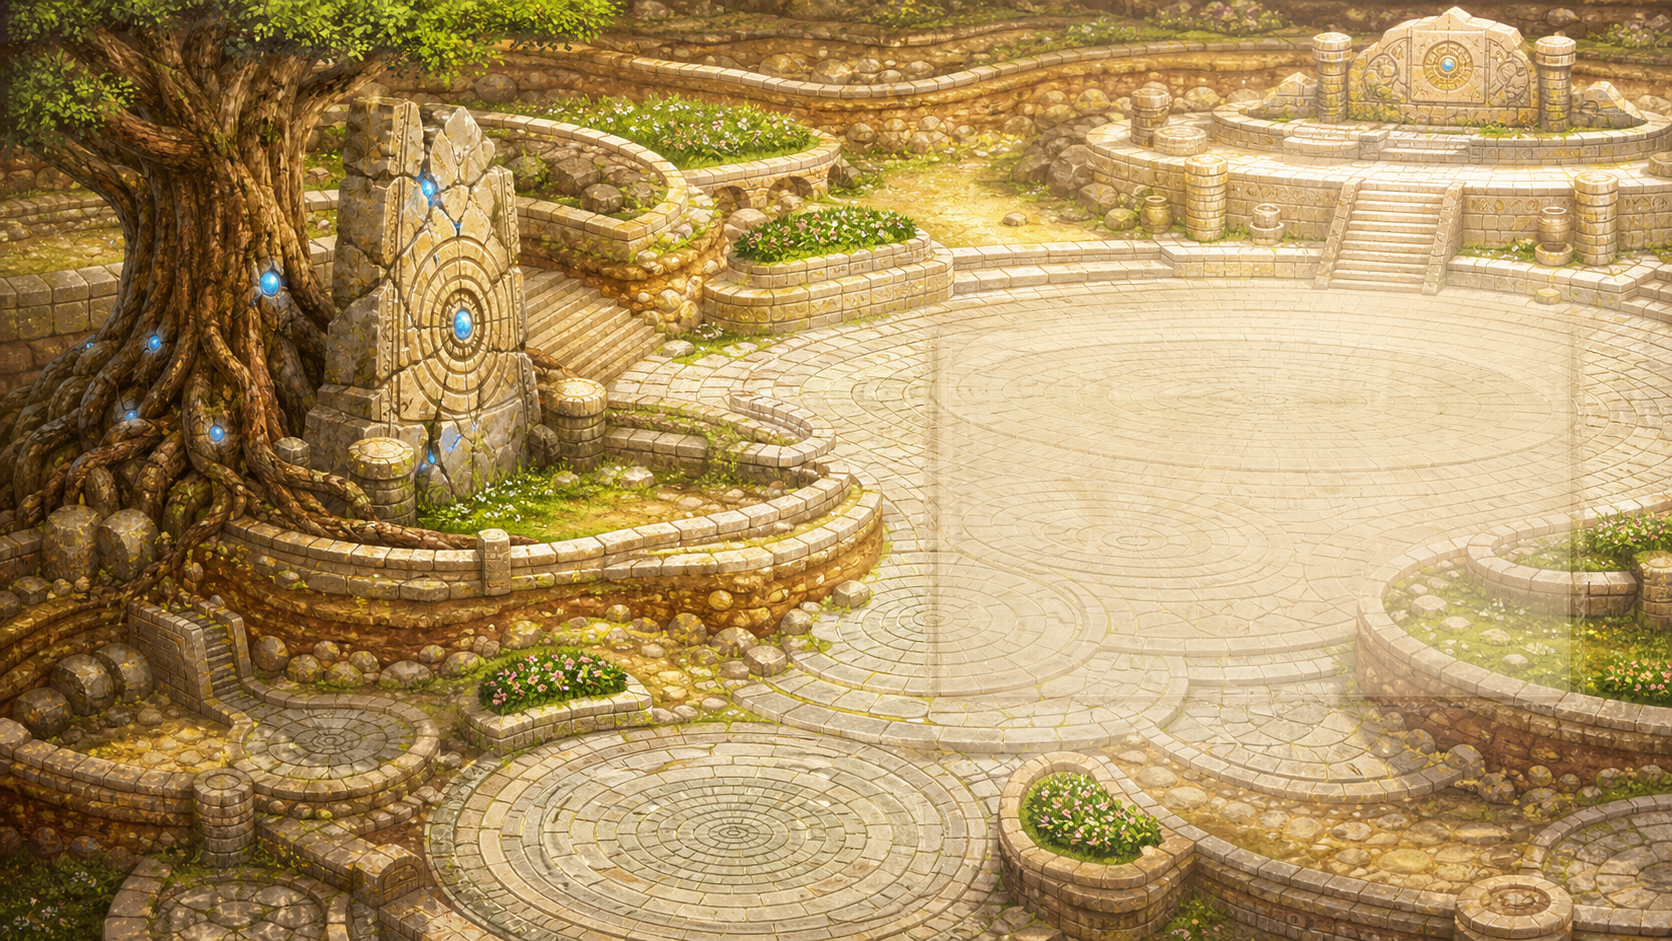
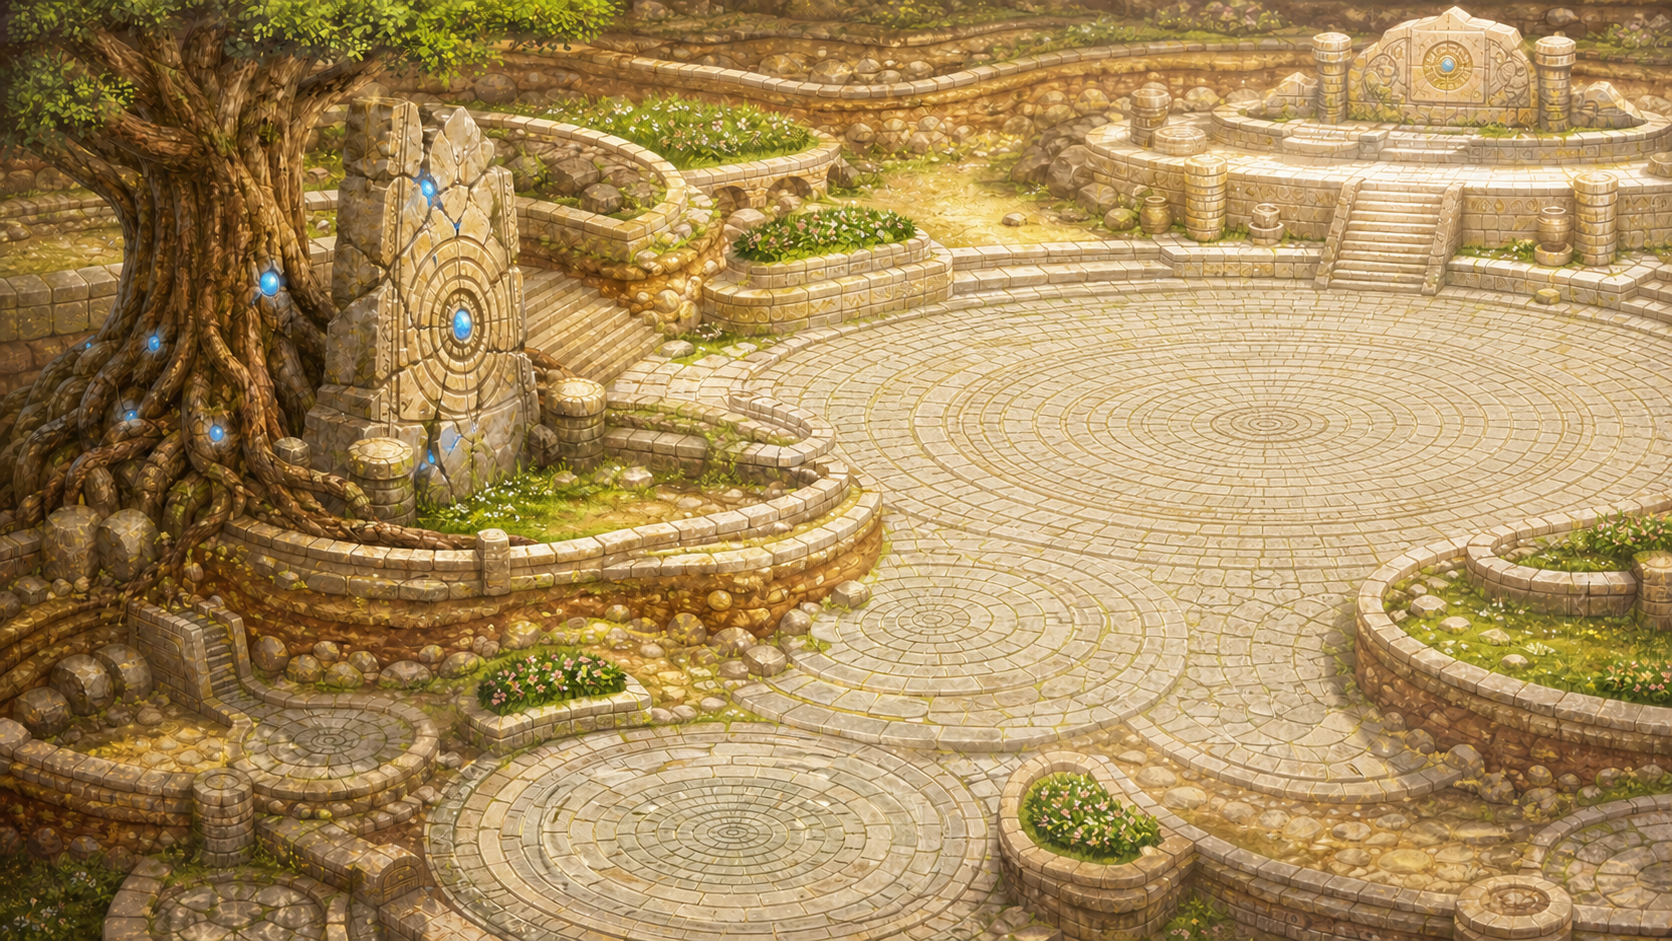
fix(ux): 흙 배경 흔적 제거와 속성 효과 보강

diff --git a/docs/ux/mockups/auction-detail-immersive-background.html b/docs/ux/mockups/auction-detail-immersive-background.html
@@ -116,7 +116,10 @@
       }
 
       body[data-element="wind"] .scene::before {
-        background: repeating-radial-gradient(ellipse at 18% 72%, transparent 0 9%, rgb(222 255 244 / 12%) 9.5%, transparent 10.5% 16%);
+        background:
+          linear-gradient(162deg, transparent 18%, rgb(224 255 244 / 11%) 18.4%, transparent 19.2% 42%, rgb(202 249 235 / 9%) 42.4%, transparent 43.1%),
+          linear-gradient(170deg, transparent 54%, rgb(255 255 255 / 8%) 54.4%, transparent 55.2%);
+        filter: blur(2px);
         animation: wind-sweep 12s linear infinite;
       }
 
@@ -134,7 +137,9 @@
       }
 
       body[data-element="water"] .scene::before {
-        background: repeating-radial-gradient(ellipse at 65% 70%, transparent 0 4%, rgb(205 251 255 / 11%) 4.5%, transparent 5.5% 10%);
+        background:
+          radial-gradient(ellipse at 64% 72%, transparent 0 8%, rgb(205 251 255 / 12%) 8.5%, transparent 10% 18%, rgb(171 239 255 / 8%) 18.5%, transparent 20%),
+          repeating-linear-gradient(112deg, transparent 0 54px, rgb(228 255 255 / 7%) 58px, transparent 64px 112px);
         mix-blend-mode: screen;
         animation: caustic-drift 9s ease-in-out infinite alternate;
       }
@@ -171,6 +176,11 @@
         height: 100%;
         pointer-events: none;
         mix-blend-mode: screen;
+      }
+
+      body[data-element="earth"] .sky-motes {
+        mix-blend-mode: normal;
+        opacity: 0.72;
       }
 
       .topbar {
@@ -891,12 +901,23 @@
         context.globalAlpha = particle.alpha;
 
         if (element === "wind") {
-          context.strokeStyle = particle.phase % 2 > 1 ? "#e8fff2" : "#a8f0d0";
-          context.lineWidth = Math.max(1, particle.size * 0.35);
+          const angle = time * 0.0012 + particle.phase;
+          context.save();
+          context.translate(x, y);
+          context.rotate(angle);
+          context.fillStyle = particle.phase % 2 > 1 ? "#d9f28d" : "#82d27b";
           context.beginPath();
-          context.moveTo(x - particle.size * 5, y + particle.size * 2);
-          context.quadraticCurveTo(x, y - particle.size * 2, x + particle.size * 6, y);
+          context.moveTo(-particle.size * 2.8, 0);
+          context.quadraticCurveTo(0, -particle.size * 2.2, particle.size * 3.1, 0);
+          context.quadraticCurveTo(0, particle.size * 1.7, -particle.size * 2.8, 0);
+          context.fill();
+          context.strokeStyle = "rgb(255 255 255 / 0.7)";
+          context.lineWidth = 0.7;
+          context.beginPath();
+          context.moveTo(-particle.size * 2.2, 0);
+          context.lineTo(particle.size * 2.4, 0);
           context.stroke();
+          context.restore();
         } else if (element === "fire") {
           const glow = context.createRadialGradient(x, y, 0, x, y, particle.size * 4);
           glow.addColorStop(0, "#fff5a8");
@@ -907,10 +928,20 @@
           context.arc(x, y, particle.size * 4, 0, Math.PI * 2);
           context.fill();
         } else if (element === "earth") {
-          context.fillStyle = particle.phase % 2 > 1 ? "#f0d49b" : "#b98c51";
-          context.beginPath();
-          context.ellipse(x, y, particle.size * 1.8, particle.size * 0.7, time * 0.0002 + particle.phase, 0, Math.PI * 2);
-          context.fill();
+          if (particle.phase % 3 > 2) {
+            context.fillStyle = "#8d683f";
+            context.beginPath();
+            context.ellipse(x, y, particle.size * 1.4, particle.size * 0.75, particle.phase, 0, Math.PI * 2);
+            context.fill();
+          } else {
+            const dust = context.createRadialGradient(x, y, 0, x, y, particle.size * 5);
+            dust.addColorStop(0, "rgb(245 219 164 / 0.65)");
+            dust.addColorStop(1, "rgb(185 140 81 / 0)");
+            context.fillStyle = dust;
+            context.beginPath();
+            context.arc(x, y, particle.size * 5, 0, Math.PI * 2);
+            context.fill();
+          }
         } else {
           context.strokeStyle = "#d9fbff";
           context.lineWidth = 1.2;
@@ -921,6 +952,12 @@
           context.beginPath();
           context.arc(x - particle.size * 0.35, y - particle.size * 0.35, particle.size * 0.22, 0, Math.PI * 2);
           context.fill();
+          if (particle.phase % 4 > 3) {
+            context.strokeStyle = "rgb(213 252 255 / 0.45)";
+            context.beginPath();
+            context.ellipse(x, y + particle.size * 3, particle.size * 4.5, particle.size * 1.25, 0, 0, Math.PI * 2);
+            context.stroke();
+          }
         }
         context.globalAlpha = 1;
       }
